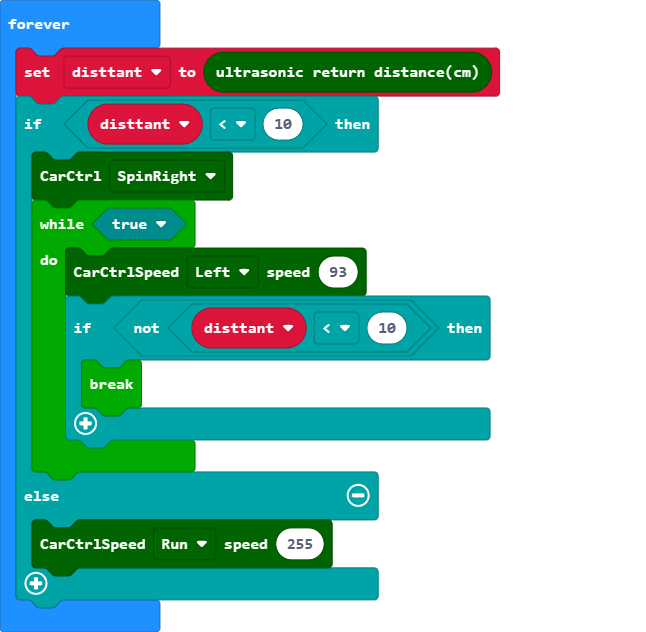
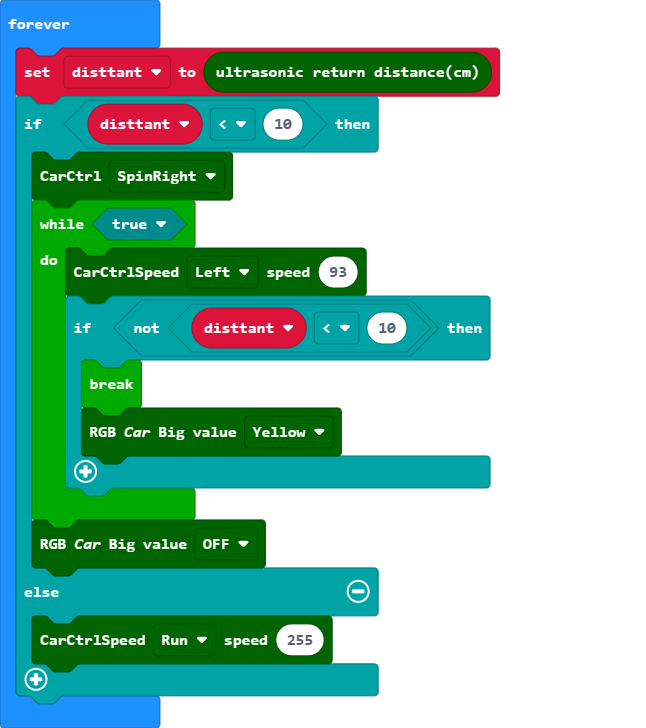
Update main.blocks, main.ts

diff --git a/main.ts b/main.ts
@@ -7,8 +7,10 @@ basic.forever(function () {
             Tinybit.CarCtrlSpeed(Tinybit.CarState.Car_Left, 93)
             if (!(disttant < 10)) {
                 break;
+Tinybit.RGB_Car_Big(Tinybit.enColor.Yellow)
             }
         }
+        Tinybit.RGB_Car_Big(Tinybit.enColor.OFF)
     } else {
         Tinybit.CarCtrlSpeed(Tinybit.CarState.Car_Run, 255)
     }
